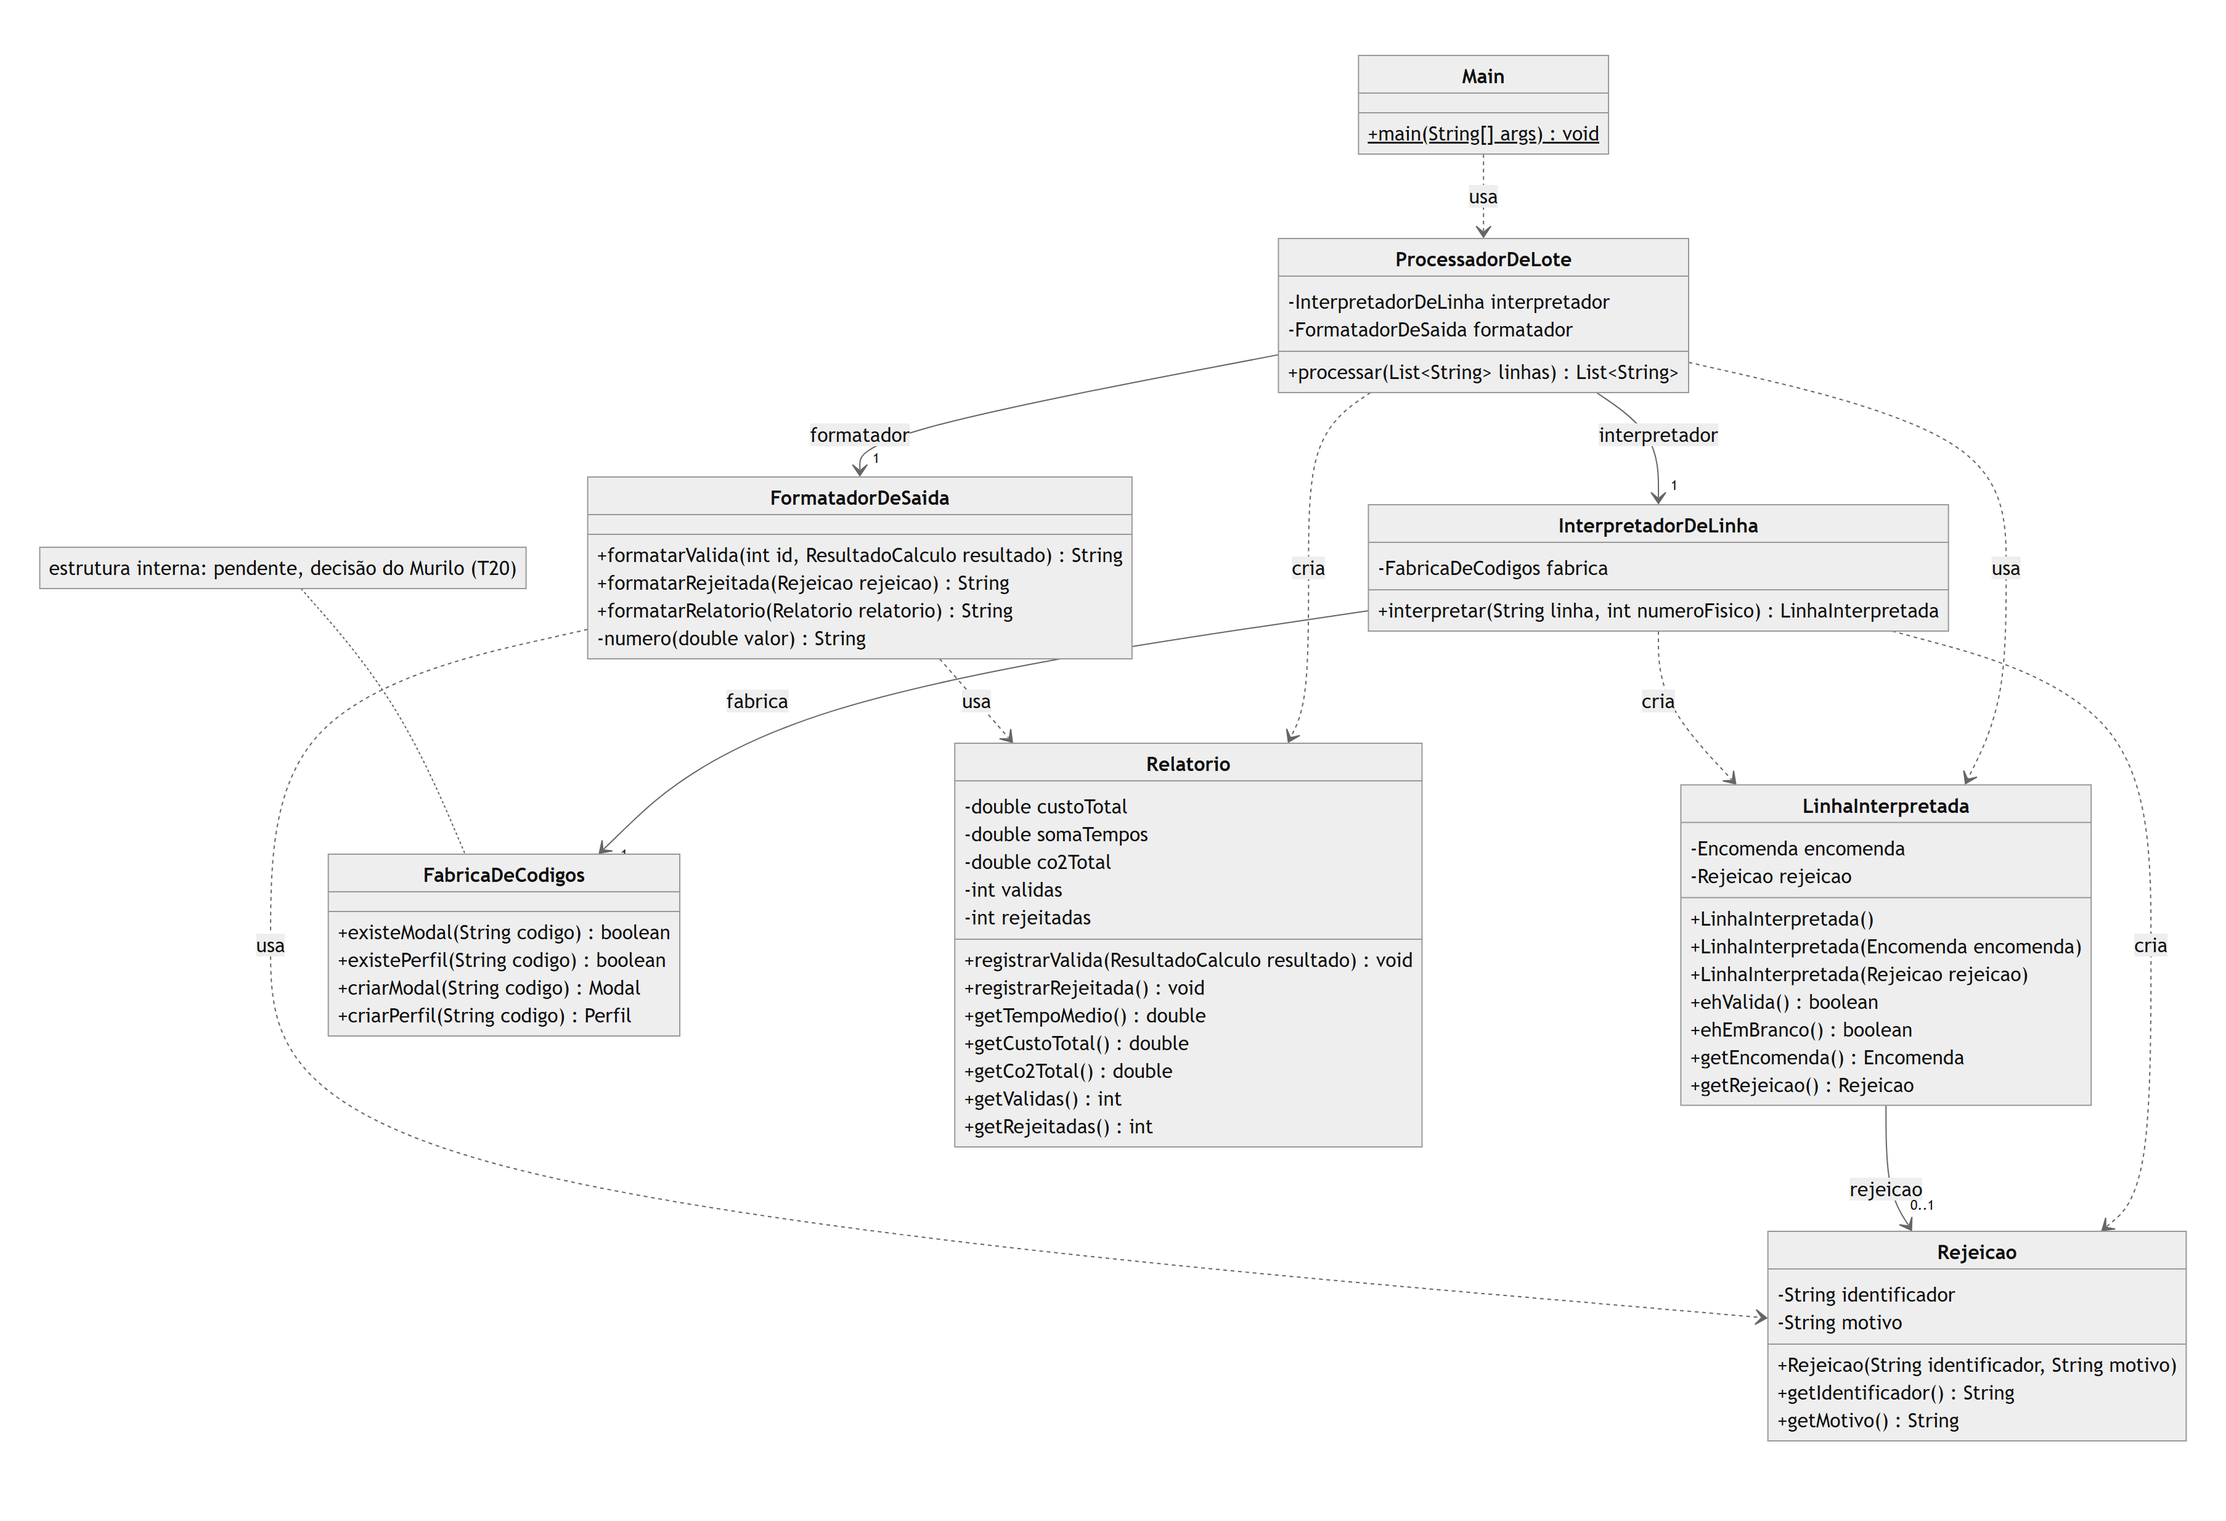
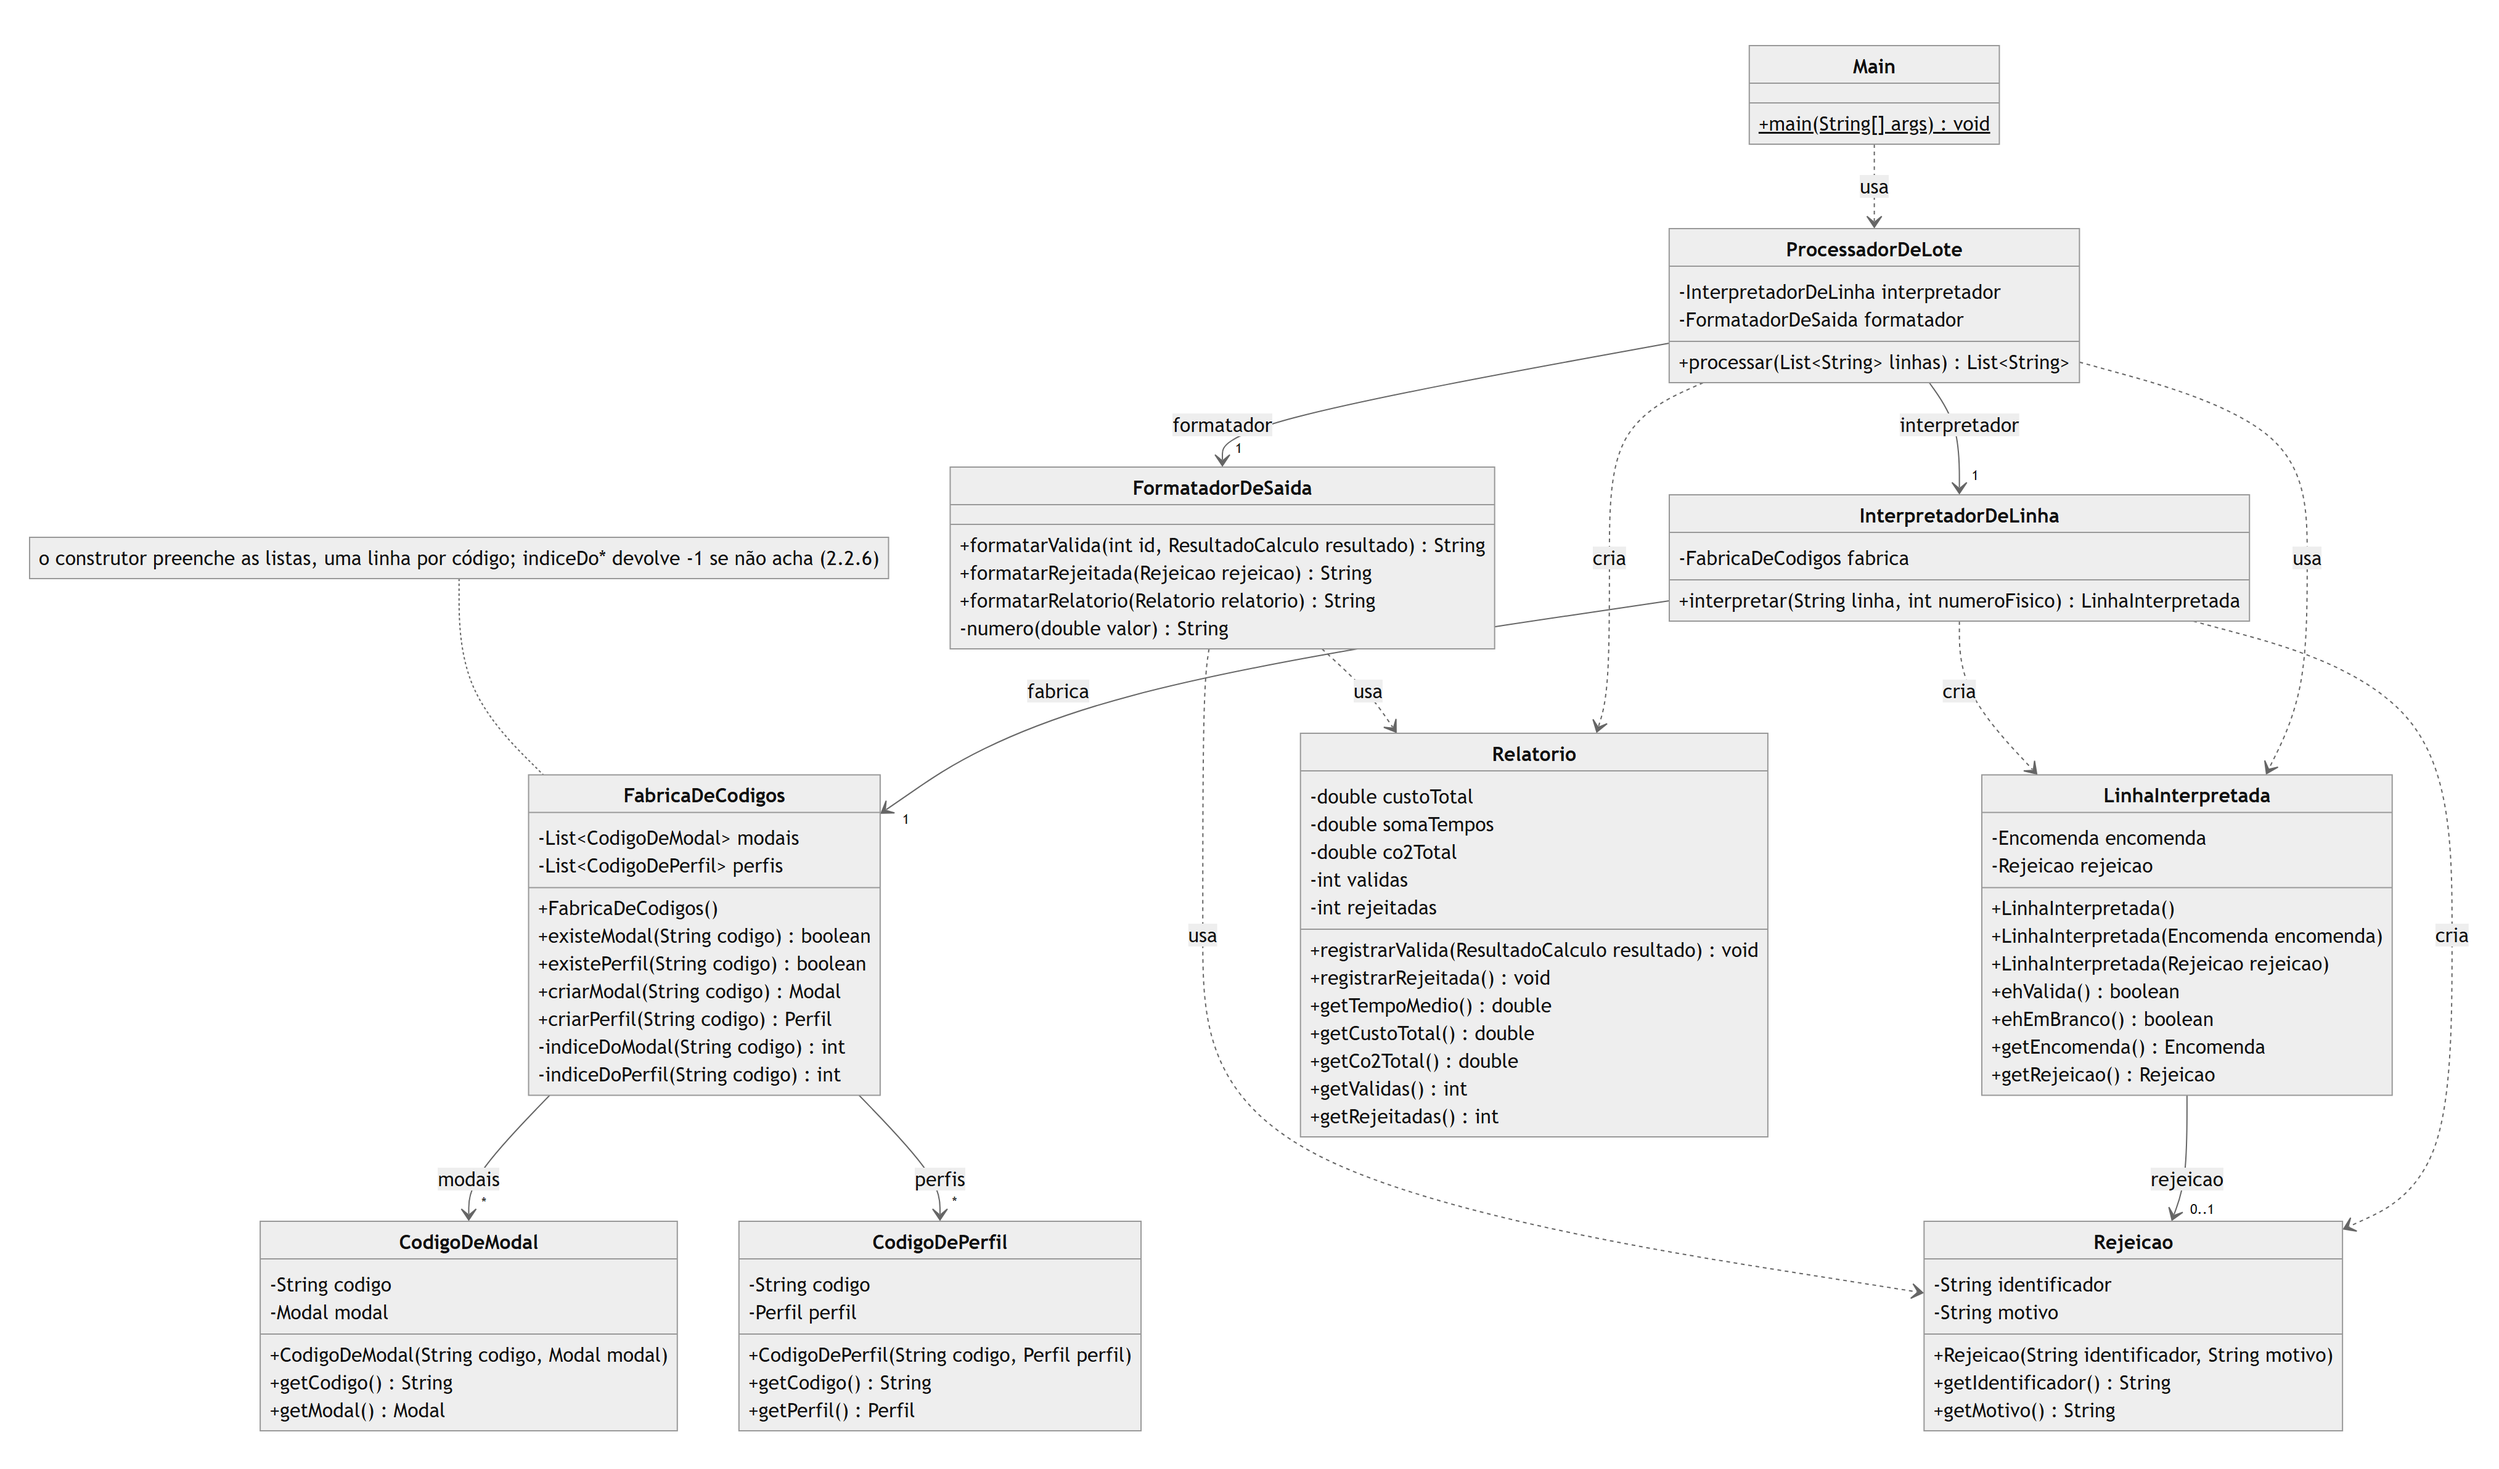
T09: lista única de códigos nos diagramas (depois do merge do PR 43)
- 3.1 e 3.6: entram CodigoDeModal e CodigoDePerfil, com as associações
  da FabricaDeCodigos e de cada par para Modal e Perfil; na 3.6 a
  fábrica ganha as duas listas, o construtor e os privados indiceDo*.
- Saem as notas "pendente" da 3.1 e da 3.6; a decisão 6 da 3.7 passa
  a registrar a estrutura decidida na 2.2.6.
- PNGs da 3.1 e da 3.6 gerados de novo (Mermaid 10.9.1, escala 2).
- Contagem de tipos de 31 para 33 na 2.2 e na seção 3.

diff --git a/docs/Documento_de_Projeto.md b/docs/Documento_de_Projeto.md
@@ -252,7 +252,7 @@ reescrita. As duas últimas linhas foram apontadas na revisão do PR #16.
 
 ### 2.2 Classes e interfaces
 
-São **31 tipos** em 6 grupos. Atributos são sempre `private`, e as constantes são `static final` com nome. As
+São **33 tipos** em 6 grupos. Atributos são sempre `private`, e as constantes são `static final` com nome. As
 operações que podem ser rejeitadas aparecem como "aceita ou rejeita": o mecanismo (valor de retorno ou exceção) foi
 resolvido para o lote na 6.1 e, para o `Status` e o `Transporte`, se resolve no T14.
 
@@ -421,9 +421,9 @@ FormatadorDeSaida
 
 ## 3. Diagrama de classes UML
 
-Os 31 tipos do catálogo (2.2) aparecem em seis diagramas: uma **visão geral**, com só os nomes, as hierarquias e as
+Os 33 tipos do catálogo (2.2) aparecem em seis diagramas: uma **visão geral**, com só os nomes, as hierarquias e as
 dependências entre os grupos, e um diagrama **por grupo** da 2.2, com atributos e métodos tipados. Um diagrama único
-com os 31 tipos completos ficava ilegível no PDF e difícil de explicar na defesa.
+com os 33 tipos completos ficava ilegível no PDF e difícil de explicar na defesa.
 
 **Como ler:**
 
@@ -444,9 +444,11 @@ diagrama diz quais. Os construtores aparecem quando os parâmetros importam.
 ### 3.1 Visão geral
 
 As dependências de dentro de cada grupo ficam nos diagramas 3.2 a 3.6. Aqui aparecem as que ligam grupos
-diferentes e mais três de dentro do grupo: a do `Main`, que ficaria solto, e as de `InteressadoEmStatus` e
-`InteressadoEmPosicao` para o `Aviso`, que mostram o que os interessados recebem. A `FabricaDeCodigos` cria os seis modais e perfis concretos, e o diagrama resume essas seis setas em duas,
-para `Modal` e `Perfil`.
+diferentes e mais cinco de dentro do grupo: a do `Main`, que ficaria solto; as de `InteressadoEmStatus` e
+`InteressadoEmPosicao` para o `Aviso`, que mostram o que os interessados recebem; e as da `FabricaDeCodigos` para
+`CodigoDeModal` e `CodigoDePerfil`, que mostram como um código da entrada chega ao `Modal` e ao `Perfil` (2.2.6). A
+`FabricaDeCodigos` cria os seis modais e perfis concretos, e o diagrama resume essas seis setas em duas, para `Modal` e
+`Perfil`.
 
 ```mermaid
 classDiagram
@@ -505,6 +507,8 @@ classDiagram
         class InterpretadorDeLinha
         class LinhaInterpretada
         class FabricaDeCodigos
+        class CodigoDeModal
+        class CodigoDePerfil
         class FormatadorDeSaida
         class Rejeicao
         class Relatorio
@@ -540,6 +544,10 @@ classDiagram
     ProcessadorDeLote --> "1" InterpretadorDeLinha : interpretador
     ProcessadorDeLote --> "1" FormatadorDeSaida : formatador
     InterpretadorDeLinha --> "1" FabricaDeCodigos : fabrica
+    FabricaDeCodigos --> "*" CodigoDeModal : modais
+    FabricaDeCodigos --> "*" CodigoDePerfil : perfis
+    CodigoDeModal --> "1" Modal : modal
+    CodigoDePerfil --> "1" Perfil : perfil
 
     Main ..> ProcessadorDeLote : usa
     ProcessadorDeLote ..> Encomenda : calcular()
@@ -558,7 +566,6 @@ classDiagram
     FormatadorDeSaida ..> ResultadoCalculo : usa
 
     note for Transporte "iniciarTransito, entregar, atualizarPosicao e trocarPerfil devolvem boolean: provisório, confirmar no T14"
-    note for FabricaDeCodigos "estrutura interna: pendente, decisão do Murilo (T20)"
 ```
 
 ### 3.2 Cálculo
@@ -824,10 +831,29 @@ classDiagram
         +getRejeicao() Rejeicao
     }
     class FabricaDeCodigos {
+        -List~CodigoDeModal~ modais
+        -List~CodigoDePerfil~ perfis
+        +FabricaDeCodigos()
         +existeModal(String codigo) boolean
         +existePerfil(String codigo) boolean
         +criarModal(String codigo) Modal
         +criarPerfil(String codigo) Perfil
+        -indiceDoModal(String codigo) int
+        -indiceDoPerfil(String codigo) int
+    }
+    class CodigoDeModal {
+        -String codigo
+        -Modal modal
+        +CodigoDeModal(String codigo, Modal modal)
+        +getCodigo() String
+        +getModal() Modal
+    }
+    class CodigoDePerfil {
+        -String codigo
+        -Perfil perfil
+        +CodigoDePerfil(String codigo, Perfil perfil)
+        +getCodigo() String
+        +getPerfil() Perfil
     }
     class FormatadorDeSaida {
         +formatarValida(int id, ResultadoCalculo resultado) String
@@ -863,14 +889,20 @@ classDiagram
     ProcessadorDeLote ..> Relatorio : cria
     ProcessadorDeLote ..> LinhaInterpretada : usa
     InterpretadorDeLinha --> "1" FabricaDeCodigos : fabrica
+    FabricaDeCodigos --> "*" CodigoDeModal : modais
+    FabricaDeCodigos --> "*" CodigoDePerfil : perfis
     InterpretadorDeLinha ..> LinhaInterpretada : cria
     InterpretadorDeLinha ..> Rejeicao : cria
     LinhaInterpretada --> "0..1" Rejeicao : rejeicao
     FormatadorDeSaida ..> Rejeicao : usa
     FormatadorDeSaida ..> Relatorio : usa
 
-    note for FabricaDeCodigos "estrutura interna: pendente, decisão do Murilo (T20)"
+    note for FabricaDeCodigos "o construtor preenche as listas, uma linha por código; indiceDo* devolve -1 se não acha (2.2.6)"
 ```
+
+O `FabricaDeCodigos()` aparece porque é nele que um modal ou perfil novo ganha a sua linha (2.2.6). As setas de
+`CodigoDeModal` para `Modal` e de `CodigoDePerfil` para `Perfil`, e as da fábrica para os concretos, ligam grupos
+diferentes e estão na visão geral (3.1).
 
 ### 3.7 Decisões do diagrama
 
@@ -901,8 +933,13 @@ O catálogo (2.2) não trazia os tipos dos atributos e dos retornos. Estes viera
    - **Para a implementação:** os construtores com parâmetro rejeitam `null` com `Objects.requireNonNull`, porque uma
      variável valendo `null` passa pelo compilador. `Objects` (`java.util`) não aparece nos slides, então o grupo
      confirma antes de usar, como o `final` (2.1.1) e o `BigDecimal` (2.1.2).
-6. **A estrutura interna da lista única de códigos da `FabricaDeCodigos` está pendente:** array de `String`, listas
-   paralelas ou outra forma. Decide o Murilo (T20), e o diagrama mostra só os métodos públicos, com uma nota.
+6. **A lista única de códigos da `FabricaDeCodigos` aparece por inteiro:** os atributos `List<CodigoDeModal>` e
+   `List<CodigoDePerfil>`, os privados `indiceDoModal` e `indiceDoPerfil` e as classes de par `CodigoDeModal` e
+   `CodigoDePerfil`, com associação `*` da fábrica para cada par e `1` de cada par para `Modal` ou `Perfil`. A
+   estrutura foi decidida na 2.2.6 (PR #43), onde estão as alternativas descartadas para ela.
+   - Por quê: o cenário do ferroviário passa pela fábrica, e o diagrama mostra onde entra a linha nova.
+   - Alternativa descartada: mostrar só os quatro métodos públicos, com uma nota de que a estrutura interna ficava
+     para depois. Era a versão anterior deste diagrama, de antes da decisão da 2.2.6.
 
 ## 6. Fluxos principais
 
